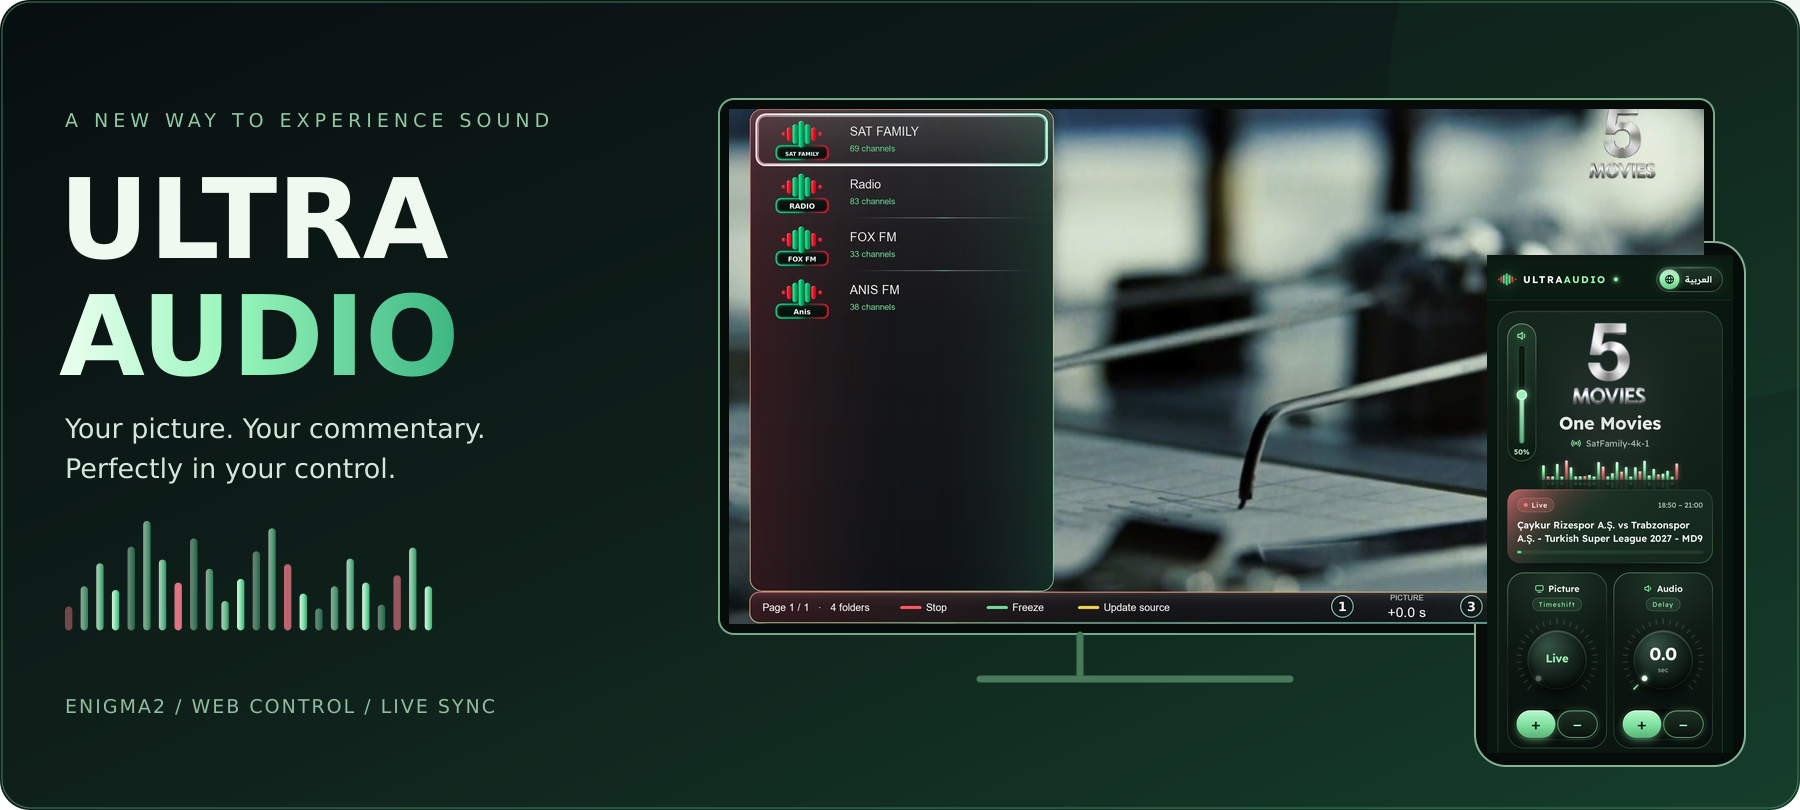
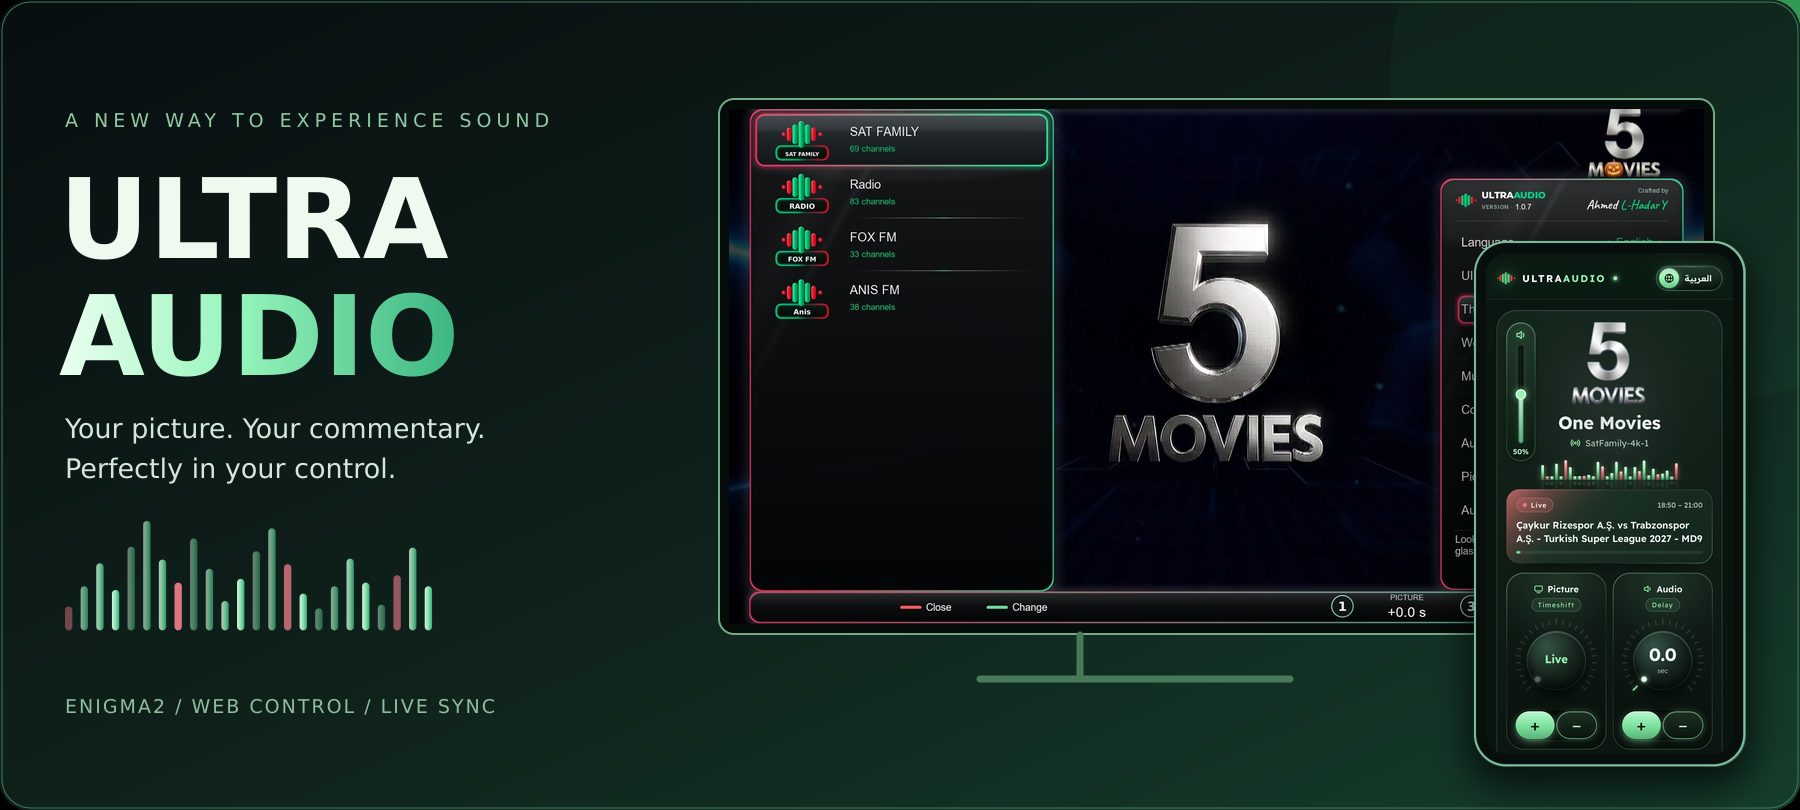
README: Neon screenshots and hero, SVG font fallback, publishing notes moved to RELEASING.md
- Hero and receiver screenshots now show the Neon theme and the new settings card.
- Section banners fall back to Segoe UI / Helvetica / Arial where DejaVu Sans is missing (iOS, macOS, Windows).
- Release publishing notes moved from the README to RELEASING.md.
- Removed four unused old screenshots.

Claude-Session: https://claude.ai/code/session_01EWWtncg68xMbZtjETUKHPZ

diff --git a/README.md b/README.md
@@ -42,7 +42,7 @@ Developed by **Ahmed L-HadarY**
 
 </div>
 
-<p align="center"><a href="screenshots/ua-tv-library.jpg"><img src="screenshots/ua-tv-library.jpg" width="100%" alt="واجهة Ultra Audio الجديدة على الرسيفر مع مكتبة الصوتيات والراديو" /></a></p>
+<p align="center"><a href="screenshots/ua-tv-library.jpg"><img src="screenshots/ua-tv-library.jpg" width="100%" alt="واجهة Ultra Audio على الرسيفر بثيم Neon: مكتبة الصوتيات والراديو مع كارت الإعدادات" /></a></p>
 
 <a name="mobile"></a>
 
@@ -182,7 +182,7 @@ wget -qO- https://raw.githubusercontent.com/K3bOra/UltraAudio/main/install.sh | 
 <details>
 <summary><strong>شاهد شاشة الإعدادات والتحديث الأونلاين</strong></summary>
 
-<p align="center"><a href="screenshots/ua-tv-updates.jpg"><img src="screenshots/ua-tv-updates.jpg" width="100%" alt="شاشة إعدادات Ultra Audio وكارت التحديث الرسمي 1.0.7" /></a></p>
+<p align="center"><a href="screenshots/ua-tv-updates.jpg"><img src="screenshots/ua-tv-updates.jpg" width="100%" alt="شاشة إعدادات Ultra Audio بثيم Neon وكارت التحديث الأونلاين" /></a></p>
 
 </details>
 
@@ -205,24 +205,7 @@ wget -qO- https://raw.githubusercontent.com/K3bOra/UltraAudio/main/install.sh | 
 
 </details>
 
-<div dir="rtl">
-
-<details>
-<summary><strong>نشر التحديثات القادمة</strong></summary>
-
-المصدر الرسمي هو `K3bOra/UltraAudio`. تم تجهيز إجراء نشر **يدوي فقط**؛ حفظ الملفات أو رفعها للمستودع لا ينشر إصدارًا تلقائيًا.
-
-عند تجهيز تحديث جديد، تُضاف الحزمة الجديدة إلى `packages/` وتُكتب ملاحظات الإصدار في `release-notes.json`. يجب زيادة رقم الحزمة لكل تحديث، مع إبقاء اسم الإصدار الرئيسي V1 ضمن سلسلة 1.x. يُشغَّل إجراء **Publish verified UltraAudio release** يدويًا عند طلب النشر فقط.
-
-سكربت التجهيز يفحص اسم الحزمة ورقمها ومحتوياتها، ويحسب الحجم وبصمة SHA-256 من الملف الفعلي. ثم يجهز إجراء النشر مسودة، ويتحقق من الملفات المرفوعة قبل إتاحة الإصدار. لا يُستبدل إصدار سبق نشره.
-
-التحديث الأونلاين يقرأ ملف `update.json` من آخر إصدار منشور، ويعرض الملاحظات ويطلب موافقة المستخدم قبل التثبيت. لن يُنشَر ملف تحديث تجريبي يشير إلى حزمة غير موجودة.
-
-</details>
-
-</div>
-
-<p align="center"><a href="https://github.com/K3bOra/UltraAudio/releases">كل الإصدارات الرسمية</a> · <a href="https://github.com/K3bOra/UltraAudio/issues">الإبلاغ عن مشكلة</a></p>
+<p align="center"><a href="https://github.com/K3bOra/UltraAudio/releases">كل الإصدارات الرسمية</a> · <a href="https://github.com/K3bOra/UltraAudio/issues">الإبلاغ عن مشكلة</a> · <a href="RELEASING.md">نشر الإصدارات</a></p>
 
 ---
 

diff --git a/RELEASING.md b/RELEASING.md
@@ -1,0 +1,13 @@
+<div dir="rtl">
+
+# نشر تحديثات Ultra Audio
+
+المصدر الرسمي هو `K3bOra/UltraAudio`. تم تجهيز إجراء نشر **يدوي فقط**؛ حفظ الملفات أو رفعها للمستودع لا ينشر إصدارًا تلقائيًا.
+
+عند تجهيز تحديث جديد، تُضاف الحزمة الجديدة إلى `packages/` وتُكتب ملاحظات الإصدار في `release-notes.json`. يجب زيادة رقم الحزمة لكل تحديث، مع إبقاء اسم الإصدار الرئيسي V1 ضمن سلسلة 1.x. يُشغَّل إجراء **Publish verified UltraAudio release** يدويًا عند طلب النشر فقط.
+
+سكربت التجهيز يفحص اسم الحزمة ورقمها ومحتوياتها، ويحسب الحجم وبصمة SHA-256 من الملف الفعلي. ثم يجهز إجراء النشر مسودة، ويتحقق من الملفات المرفوعة قبل إتاحة الإصدار. لا يُستبدل إصدار سبق نشره.
+
+التحديث الأونلاين يقرأ ملف `update.json` من آخر إصدار منشور، ويعرض الملاحظات ويطلب موافقة المستخدم قبل التثبيت. لن يُنشَر ملف تحديث تجريبي يشير إلى حزمة غير موجودة.
+
+</div>

diff --git a/screenshots/README.md b/screenshots/README.md
@@ -1,8 +1,9 @@
 # UltraAudio screenshots
 
-Screenshots of UltraAudio provided by the developer for the project README.
+Images used by the project README.
 
-- `tv-channels.jpg`: commentary list on the receiver.
-- `tv-library.jpg`: main audio library and sources.
-- `tv-folders.jpg`: subfolders inside an audio source.
-- `mobile-control.jpg`: web controls and current receiver channel picon.
+- `ua-hero.png`: page header (receiver with the Neon theme and the mobile web page).
+- `ua-tv-library.jpg`: audio library on the receiver with the settings card (Neon theme).
+- `ua-tv-updates.jpg`: settings card and the online update card on the receiver.
+- `ua-mobile-control.jpg`, `ua-mobile-library.jpg`, `ua-mobile-showcase.jpg`: the mobile web page.
+- `ua-*.svg`: section banners.
